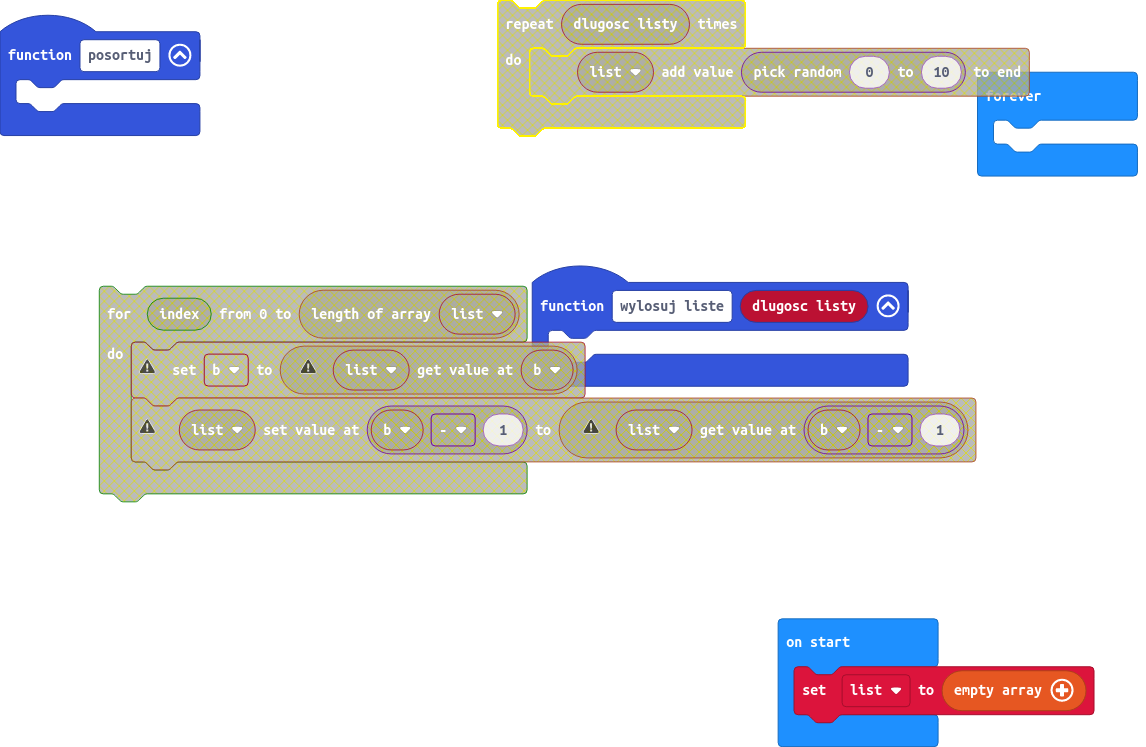
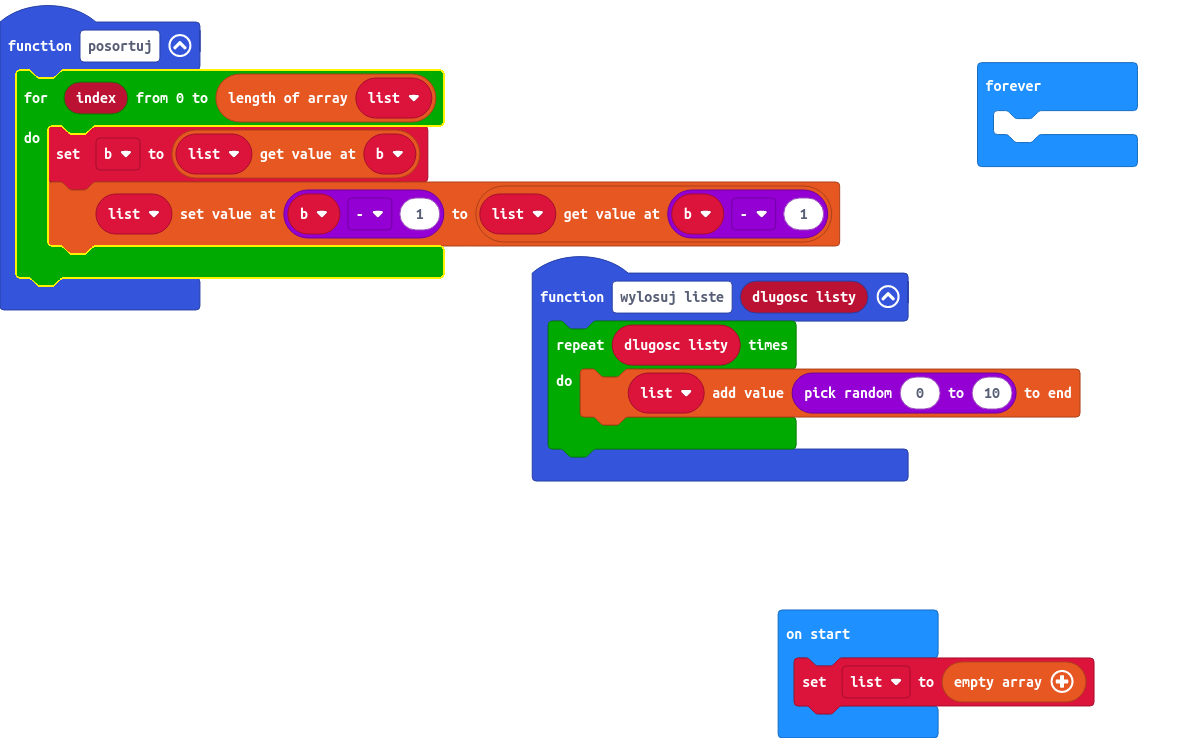
Update main.blocks, main.ts

diff --git a/main.ts b/main.ts
@@ -1,10 +1,17 @@
 function posortuj () {
-	
+    for (let index = 0; index <= list.length; index++) {
+        b = list[b]
+        list[b - 1] = list[b - 1]
+    }
 }
 function wylosuj_liste (dlugosc_listy: number) {
-	
+    for (let index = 0; index < dlugosc_listy; index++) {
+        list.push(randint(0, 10))
+    }
 }
+let b = 0
 let list: number[] = []
+list = []
 basic.forever(function () {
 	
 })
